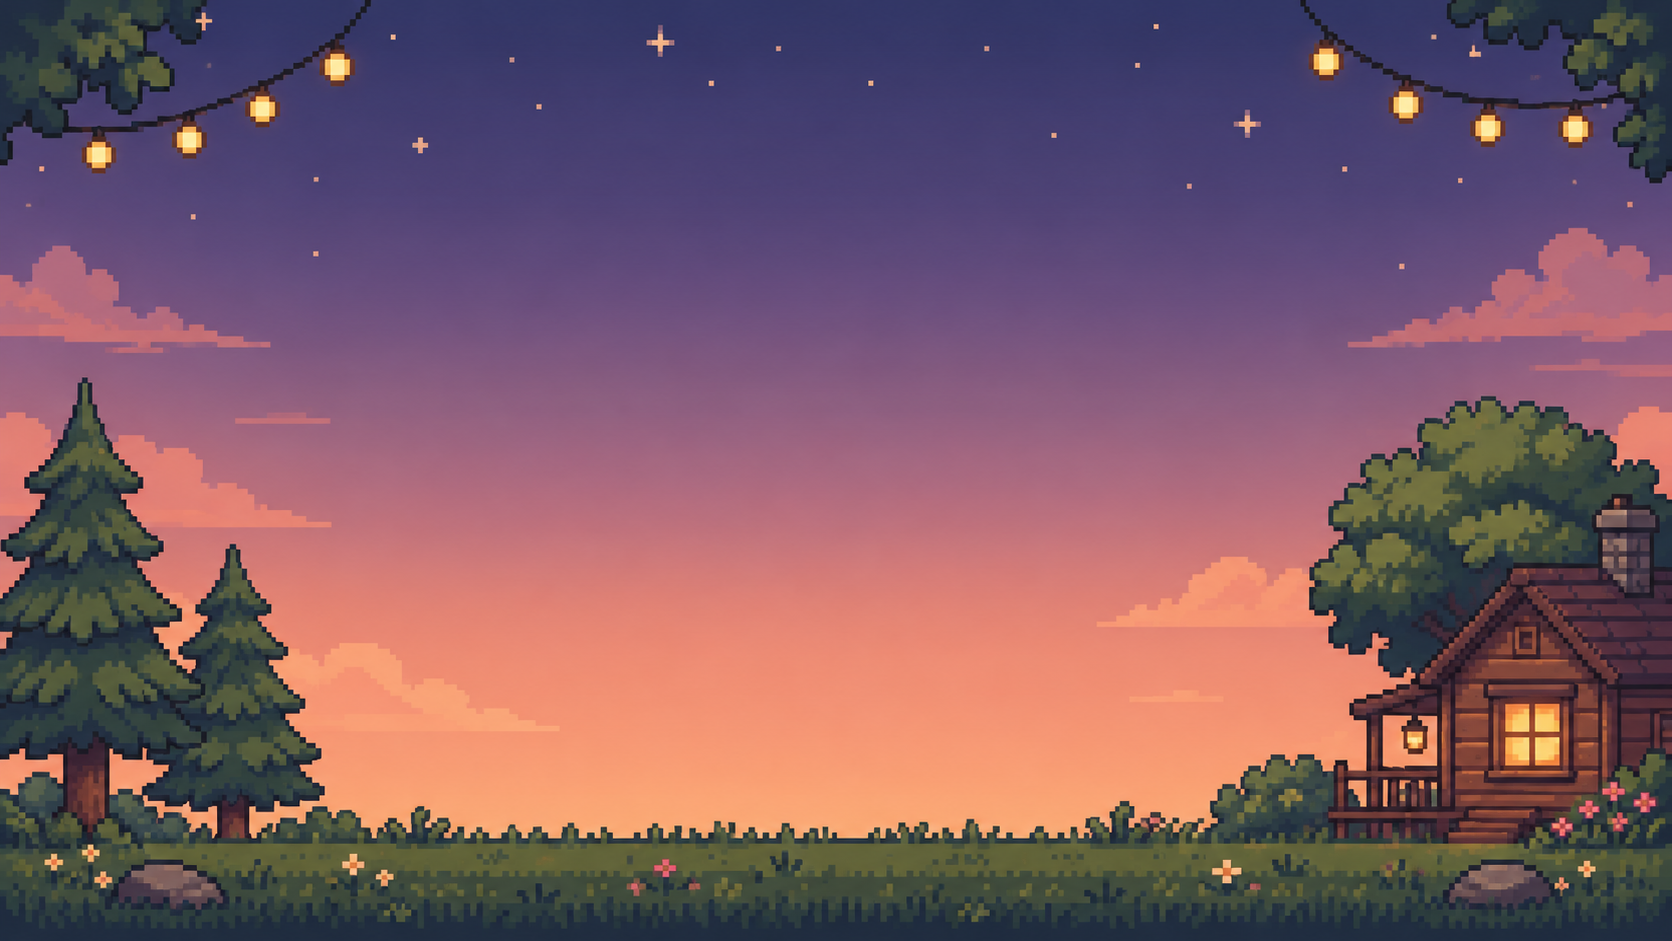
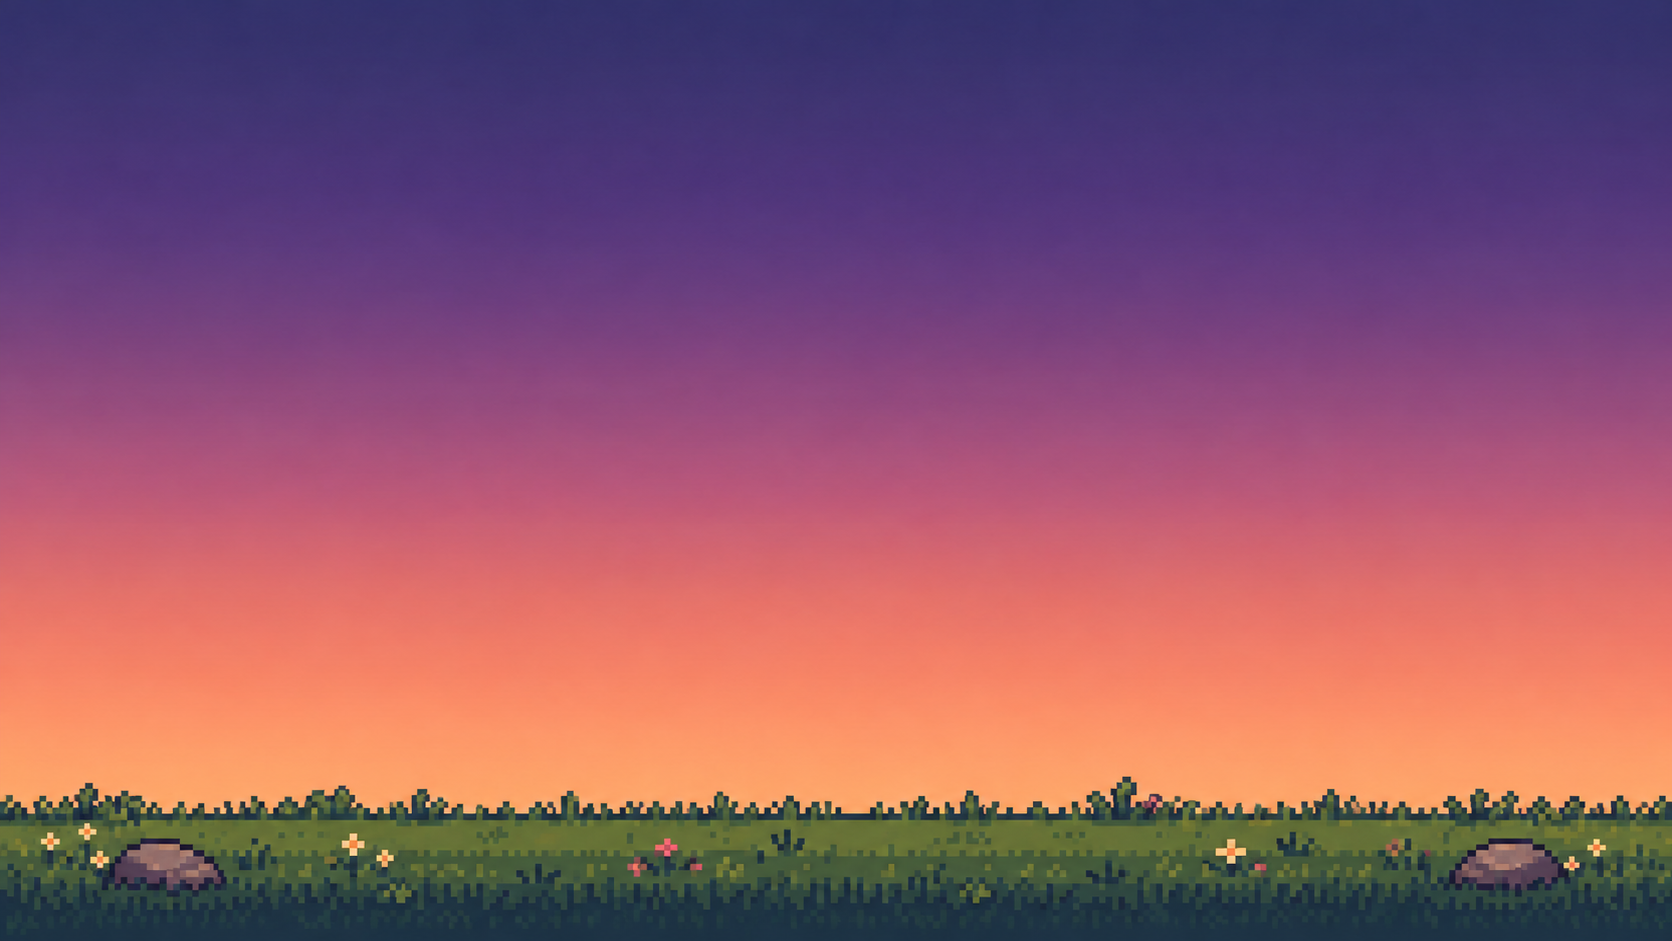
feat: adiciona cena animada com nuvens e estrelas na tela inicial

diff --git a/index.html b/index.html
@@ -14,6 +14,51 @@
     <div id="game"></div>
         <div id="menu">
       <div class="palco">
+                <img class="camada fundo-cena" src="/assets/menu/fundo.png" alt="" />
+                  <div class="estrela p" style="left:30cqw;top:10cqh;animation-delay:0s"></div>
+        <div class="estrela m" style="left:44cqw;top:7cqh;animation-delay:0.3s"></div>
+        <div class="estrela pp" style="left:56cqw;top:12cqh;animation-delay:0.6s"></div>
+        <div class="estrela g" style="left:66cqw;top:9cqh;animation-delay:0.9s"></div>
+        <div class="estrela pp" style="left:36cqw;top:18cqh;animation-delay:0.2s"></div>
+        <div class="estrela p" style="left:50cqw;top:16cqh;animation-delay:0.5s"></div>
+        <div class="estrela pp" style="left:62cqw;top:19cqh;animation-delay:0.8s"></div>
+        <div class="estrela m" style="left:72cqw;top:14cqh;animation-delay:1.0s"></div>
+        <div class="estrela pp" style="left:41cqw;top:25cqh;animation-delay:0.4s"></div>
+        <div class="estrela p" style="left:54cqw;top:24cqh;animation-delay:0.7s"></div>
+        <div class="estrela pp" style="left:47cqw;top:30cqh;animation-delay:0.35s"></div>
+        <div class="estrela pp" style="left:58cqw;top:29cqh;animation-delay:0.55s"></div>
+        <div class="estrela pp" style="left:51cqw;top:35cqh;animation-delay:0.95s"></div>
+        <div class="estrela pp" style="left:44cqw;top:36cqh;animation-delay:0.15s"></div>
+        <div class="estrela p" style="left:4cqw;top:5cqh;animation-delay:0.1s"></div>
+<div class="estrela pp" style="left:12cqw;top:10cqh;animation-delay:0.45s"></div>
+<div class="estrela m" style="left:20cqw;top:4cqh;animation-delay:0.7s"></div>
+<div class="estrela pp" style="left:8cqw;top:17cqh;animation-delay:0.25s"></div>
+<div class="estrela p" style="left:24cqw;top:14cqh;animation-delay:0.85s"></div>
+<div class="estrela pp" style="left:16cqw;top:22cqh;animation-delay:0.5s"></div>
+<div class="estrela p" style="left:3cqw;top:26cqh;animation-delay:0.05s"></div>
+<div class="estrela pp" style="left:27cqw;top:24cqh;animation-delay:0.65s"></div>
+<div class="estrela p" style="left:95cqw;top:6cqh;animation-delay:0.2s"></div>
+<div class="estrela m" style="left:86cqw;top:4cqh;animation-delay:0.55s"></div>
+<div class="estrela pp" style="left:78cqw;top:8cqh;animation-delay:0.9s"></div>
+<div class="estrela pp" style="left:90cqw;top:13cqh;animation-delay:0.4s"></div>
+<div class="estrela p" style="left:80cqw;top:17cqh;animation-delay:0.75s"></div>
+<div class="estrela pp" style="left:96cqw;top:21cqh;animation-delay:0.3s"></div>
+<div class="estrela m" style="left:85cqw;top:23cqh;animation-delay:1.0s"></div>
+<div class="estrela pp" style="left:75cqw;top:26cqh;animation-delay:0.6s"></div>
+<div class="estrela pp" style="left:10cqw;top:34cqh;animation-delay:0.35s"></div>
+<div class="estrela p" style="left:30cqw;top:36cqh;animation-delay:0.7s"></div>
+<div class="estrela pp" style="left:34cqw;top:33cqh;animation-delay:0.15s"></div>
+<div class="estrela p" style="left:64cqw;top:33cqh;animation-delay:0.85s"></div>
+<div class="estrela pp" style="left:70cqw;top:37cqh;animation-delay:0.45s"></div>
+<div class="estrela p" style="left:90cqw;top:33cqh;animation-delay:0.25s"></div>
+<div class="nuvem" style="--x:42;--y:18;--w:830;--h:244;--d:16cqw;left:-2cqw;top:4cqh;animation-duration:110s"></div>
+<div class="nuvem" style="--x:935;--y:40;--w:517;--h:163;--d:-16cqw;left:80cqw;top:6cqh;animation-duration:100s"></div>
+<div class="nuvem" style="--x:30;--y:352;--w:658;--h:168;--d:18cqw;left:2cqw;top:28cqh;animation-duration:120s"></div>
+<div class="nuvem" style="--x:760;--y:285;--w:734;--h:242;--d:-18cqw;left:80cqw;top:26cqh;animation-duration:115s"></div>
+<div class="nuvem" style="--x:746;--y:588;--w:450;--h:122;--d:-12cqw;left:62cqw;top:44cqh;animation-duration:95s"></div>
+<div class="nuvem" style="--x:1255;--y:602;--w:252;--h:95;--d:14cqw;left:6cqw;top:42cqh;animation-duration:90s"></div>
+<div class="nuvem recorte entra" style="--x:30;--y:585;--w:834;--h:268;--d:83cqw;left:-60cqw;top:16cqh;animation-duration:100s"></div>
+<div class="nuvem entra" style="--x:934;--y:793;--w:582;--h:147;--d:-46cqw;left:100cqw;top:16cqh;animation-duration:90s;animation-delay:-60s"></div>
         <img class="casal" src="/assets/menu/miya_kiss.png" alt="" />
         <div class="titulo">
           <h1>MiYa</h1>

diff --git a/src/style.css b/src/style.css
@@ -76,7 +76,7 @@ body {
   position: fixed;
   inset: 0;
   z-index: 20;
-  background: #1f2a4d url('/assets/menu/fundo.png') center / cover no-repeat;
+  background: linear-gradient(#312f68 0%, #a24f7d 45%, #fe9f66 83%, #4b6b2f 83%, #1f3a3d 100%);
   image-rendering: pixelated;
   font-family: 'Baloo 2', sans-serif;
   overflow: hidden;
@@ -298,4 +298,76 @@ body {
   flex: 0 0 auto;
   margin-top: 1%;
   font-size: 2.5cqw;
+}
+
+/* Camadas da cena animada (ficam dentro do palco, atrás do casal e dos botões) */
+#menu .palco {
+  overflow: hidden;
+}
+
+#menu .camada {
+  position: absolute;
+  image-rendering: pixelated;
+  pointer-events: none;
+}
+
+#menu .fundo-cena {
+  left: 0;
+  top: 0;
+  width: 100%;
+  height: 100%;
+}
+
+/* Nuvens: cada uma é um recorte da nuvens.png (--k = tamanho de 1 pixel da imagem) */
+#menu .nuvem {
+  --k: 0.026cqw;
+  position: absolute;
+  width: calc(var(--w) * var(--k));
+  height: calc(var(--h) * var(--k));
+  background: url('/assets/menu/cena/nuvens.png') no-repeat;
+  background-size: calc(1536 * var(--k)) calc(1024 * var(--k));
+  background-position: calc(var(--x) * var(--k) * -1) calc(var(--y) * var(--k) * -1);
+  image-rendering: pixelated;
+  pointer-events: none;
+  animation: deriva 60s ease-in-out infinite alternate;
+}
+
+#menu .nuvem.recorte {
+  clip-path: polygon(0 0, 85% 0, 85% 50%, 100% 50%, 100% 100%, 0 100%);
+}
+
+@keyframes deriva {
+  from { transform: translateX(0); }
+  to   { transform: translateX(var(--d)); }
+}
+
+/* Estrelas: a imagem tem 2 frames lado a lado; alterna rápido entre eles */
+#menu .estrela {
+  position: absolute;
+  aspect-ratio: 768 / 1024;
+  background: url('/assets/menu/cena/estrelas.png') 0 0 / 200% 100% no-repeat;
+  image-rendering: pixelated;
+  pointer-events: none;
+  animation: piscar 1.2s ease-in-out infinite;
+}
+
+#menu .estrela.pp { width: 1cqw; }
+#menu .estrela.p  { width: 1.6cqw; }
+#menu .estrela.m  { width: 2.4cqw; }
+#menu .estrela.g  { width: 3.2cqw; }
+
+@keyframes piscar {
+  0%, 100% { opacity: 1; }
+  50%      { opacity: 0.25; }
+}
+
+/* Nuvens que entram pelas bordas: andam em linha reta (sem voltar) e somem no fim */
+#menu .nuvem.entra {
+  animation: entra 90s linear infinite;
+}
+
+@keyframes entra {
+  0%   { transform: translateX(0); opacity: 1; }
+  70%  { opacity: 1; }
+  100% { transform: translateX(var(--d)); opacity: 0; }
 }
